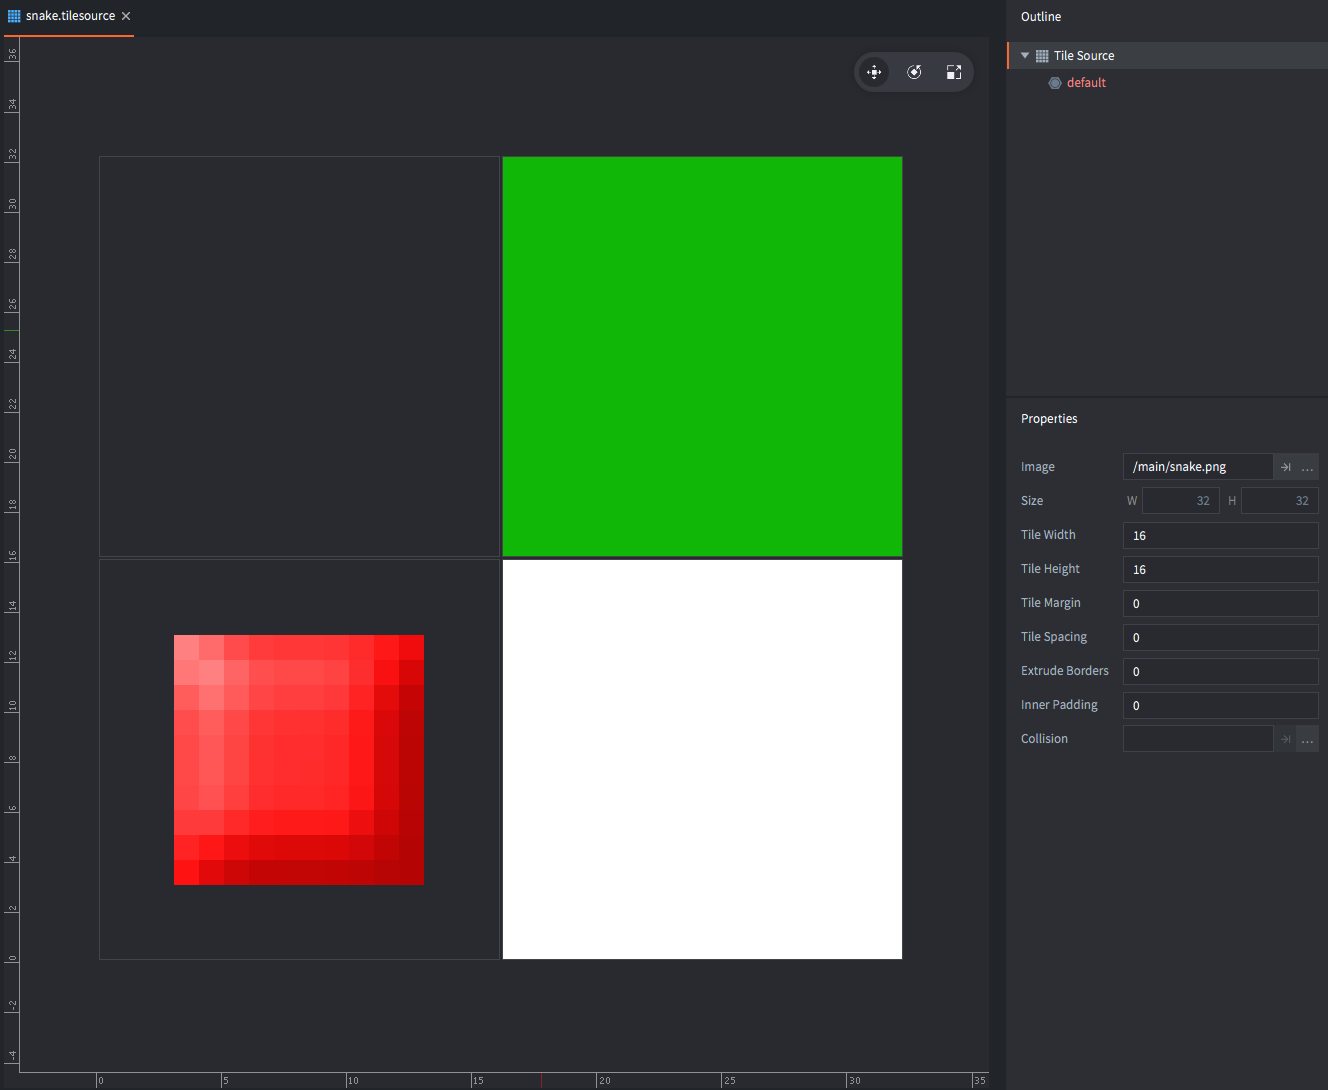
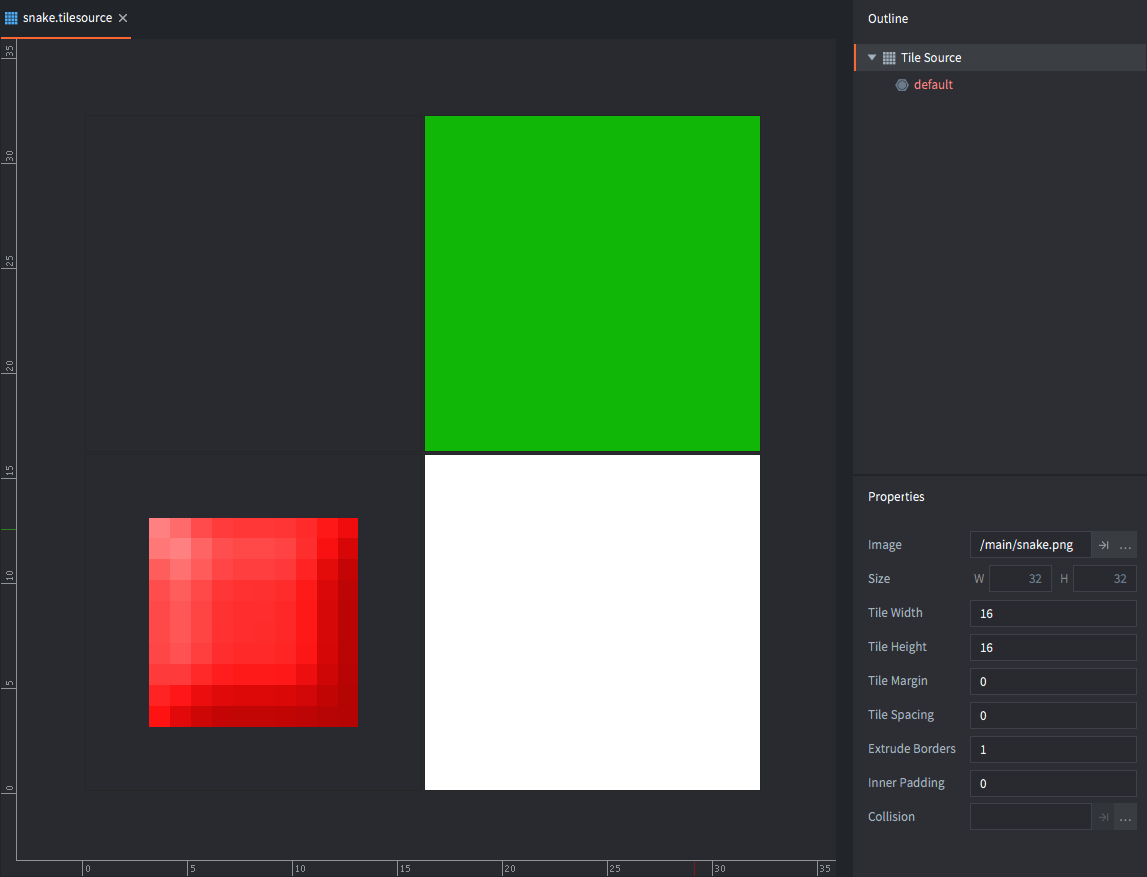
Snake wip. Fix to war battles and runner tutorials.

diff --git a/docs/en/tutorials/snake.md b/docs/en/tutorials/snake.md
@@ -5,7 +5,117 @@ brief: If you are new to Defold, this guide will help you to get started with sc
 
 # Snake
 
-This tutorial walks you through the process of creating one of the most common basic games that you can attempt, the snake game. There are a lot of variations on this game to be found. This one features a snake that eats "fruit", that only grows when it eats. The snake also crawls on a playfield that contains obstacles.
+This tutorial walks you through the process of creating a snake game. This is onen of the most common classic games you can attempt to recreate. There are a lot of variations on this game, this one features a snake that eats "fruit", that only grows when it eats. The snake also crawls on a playfield that contains obstacles.
 
 Before beginning, take a minute and try the game:
 
+<div id="game-container" class="game-container">
+  <img id="game-preview" src="//storage.googleapis.com/defold-doc/assets/snake/preview.jpg"/>
+  <canvas id="game-canvas" tabindex="1" width="512" height="512">
+  </canvas>
+  <button id="game-button">
+    START GAME <span class="icon"></span>
+  </button>
+  <script src="//storage.googleapis.com/defold-doc/assets/dmloader.js"></script>
+  <script src="//storage.googleapis.com/defold-doc/assets/dmengine_1_2_107.js" async></script>
+  <script>
+      /* Load app on click in container. */
+      document.getElementById("game-button").onclick = function (e) {
+          var extra_params = {
+              archive_location_filter: function( path ) {
+                  return ("//storage.googleapis.com/defold-doc/assets/snake" + path + "");
+              },
+              load_done: function() {},
+              game_start: function() {
+                  var e = document.getElementById("game-preview");
+                  e.parentElement.removeChild(e);
+              }
+          }
+          Module.runApp("game-canvas", extra_params);
+          document.getElementById("game-button").style.display = 'none';
+          document.getElementById("game-button").onclick = null;
+      };
+  </script>
+</div>
+
+## Setting up the project
+
+Create a new project and do a quick clean up. If you already know how to do that, great. If you don’t, head over to the [war battles](/tutorials/war-battles) tutorial and read the sections “Setting up the project” through “Cleaning the project”. There is also an overview of the editor there that will help you find your way around if you are totally new to Defold.
+
+With the project cleaned up, open the *game.project* settings file and set the dimensions of the game to 768⨉768 or some other multiple of 16. The reason why you want to do this is because the game will be drawn on a grid where each segment is going to be 16x16 pixels, and this way the game screen won't cut off any segments at the edges.
+
+## Adding graphics to the game
+
+Very little is needed in terms of graphics. One 16x16 segment for the snake, one for obstacles and one for the "fruit". Here is an image containing the graphics. Download it and drag it to a location in the project folder.
+
+![snake sprites](images/snake/snake.png)
+
+Defold provides a built in *Tilemap* component that you will use to create the playfield. A tilemap allow you to set and read individual tiles, which suits this game perfectly. A tilemap will fetch its graphics from a *Tilesource* so you need to create one:
+
+<kbd>Right click</kbd> the *main* folder and select <kbd>New ▸ Tile Source</kbd>. Name the new file "snake.tilesource".
+
+The *Width* and *Height* properties should be kept at 16. This will split the 32⨉32 pixel image into 4 tiles, numbered 1–4.
+
+![tilesource](images/snake/tilesource.png)
+
+Note that the *Extrude Borders* property is set to 1 pixel. This is to prevent visual artifacts around the tiles that have graphics all the way out to the edge.
+
+## Creating the play field tilemap
+
+Now you have a tilesource ready for use so it's time to create the playfield tilemap component:
+
+<kbd>Right click</kbd> the *main* folder and select <kbd>New ▸ Tile Map</kbd>. Name the new file "grid.tilemap".
+
+Defold only stores the area of the tilemap that is actually used so you need to add enough tiles to fill the boundaries of the screen. Select the "layer1" layer and paint a border around the edge of the screen and some obstacles. Choose the menu option <kbd>Scene ▸ Tile Map ▸ Show Palette</kbd> to display the tile palette, then click the tile you want to use when painting.
+
+![tilemap](images/snake/tilemap.png)
+
+Save the tilemap when you are done.
+
+## Adding the tilemap and a script to the game
+
+Now open *main.collection*. <kbd>Right click</kbd> the root in the *Outline* and select <kbd>Add Game Object</kbd> which creates a new game object in the main collection that is loaded when the game starts.
+
+![add game object](images/snake/add_game_object.png)
+
+Then <kbd>Right click</kbd> then new game object and select <kbd>Add Component File</kbd>. Choose the file "grid.tilemap" that you just created.
+
+![add component](images/snake/add_component_file.png)
+
+<kbd>Right click</kbd> the folder *main* in the *Assets* browser and select <kbd>New ▸ Script</kbd>. Name the new script file "snake.script". This file will hold all the logic for the game.
+
+Go back to *main.collection* and <kbd>right click</kbd> then game object holding the tilemap. Select <kbd>Add Component File</kbd> and choose the file "snake.script".
+
+Now you have the tilemap component and the script in place. If you run the game you should see the playfield as you drew it on the tilemap.
+
+![main collection](images/snake/main_collection_no_gui.png)
+
+## Coding the game
+
+The script you are going to create will drive all of the game. The idea is to basically do this:
+
+1. Keep a list of tile positions the snake currently occupies.
+2. If the player presses a directional key, store the direction the snake should be moving.
+3. At a regular interval, move the snake one step in the current movement direction, then redraw the snake at the new position.
+
+Open *snake.script* and locate the `init()` function. This function is called by the engine when the script is initialized on game start. Change the code to the following.
+
+```lua
+function init(self)
+    msg.post(".", "acquire_input_focus") -- <1>
+
+    self.segments = {
+        {x = 7, y = 24},
+        {x = 8, y = 24},
+        {x = 9, y = 24},
+        {x = 10, y = 24} } -- <2>
+    self.dir = {x = 1, y = 0} -- <3>
+    self.speed = 7.0 -- <4>
+
+    self.t = 0 -- <5>
+end
+```
+1. Send a message to the current game object ("." is shorthand for the current game object) telling it to start receiving input from the engine.
+2. Store the segments of the snake as a Lua table containing a list of tables, each holding a X and Y position.
+3. Store the current direction as a table holding an X and Y direction.
+4. Store the current movement speed.

diff --git a/docs/en/tutorials/war-battles.md b/docs/en/tutorials/war-battles.md
@@ -7,6 +7,10 @@ brief: In this tutorial you will create the embryo of a small shooter game. This
 
 This tutorial goes through the steps needed to create a small playable game embryo in Defold. You do not need to have any prior experience with Defold, but if you have done some programming in Lua, Javascript, Python or similar, that will help.
 
+::: important
+We are in the process of transitioning to Defold editor 2, which is currently in alpha. This guide is written for the new editor 2, but most details apply to editor 1 as well. You are very welcome to [try the new editor](https://www.defold.com/editor-two/).
+:::
+
 To get an idea about what you are about to build, you can try the result here:
 
 <div id="game-container" class="game-container">

diff --git a/docs/en/tutorials/runner.md b/docs/en/tutorials/runner.md
@@ -202,7 +202,7 @@ Collections
 For the time being these description probably suffices. However, a much more comprehensive dive through these things can be found in the [Building blocks manual](/manuals/building-blocks). It is a good idea to visit that manual at a later stage to get a deeper understanding on how things work in Defold.
 
 <a name="part-3"></span></a>
-## STEP 3 - Make the ground moving
+## STEP 3 - Making the ground move
 
 Now that we have all ground pieces in place, it is rather simple to get them moving. The idea is this: move the pieces right-to-left and when a piece reach the leftmost edge outside of the screen, move it to the rightmost position. To move all these game objects requires a Lua script so let's create one:
 
